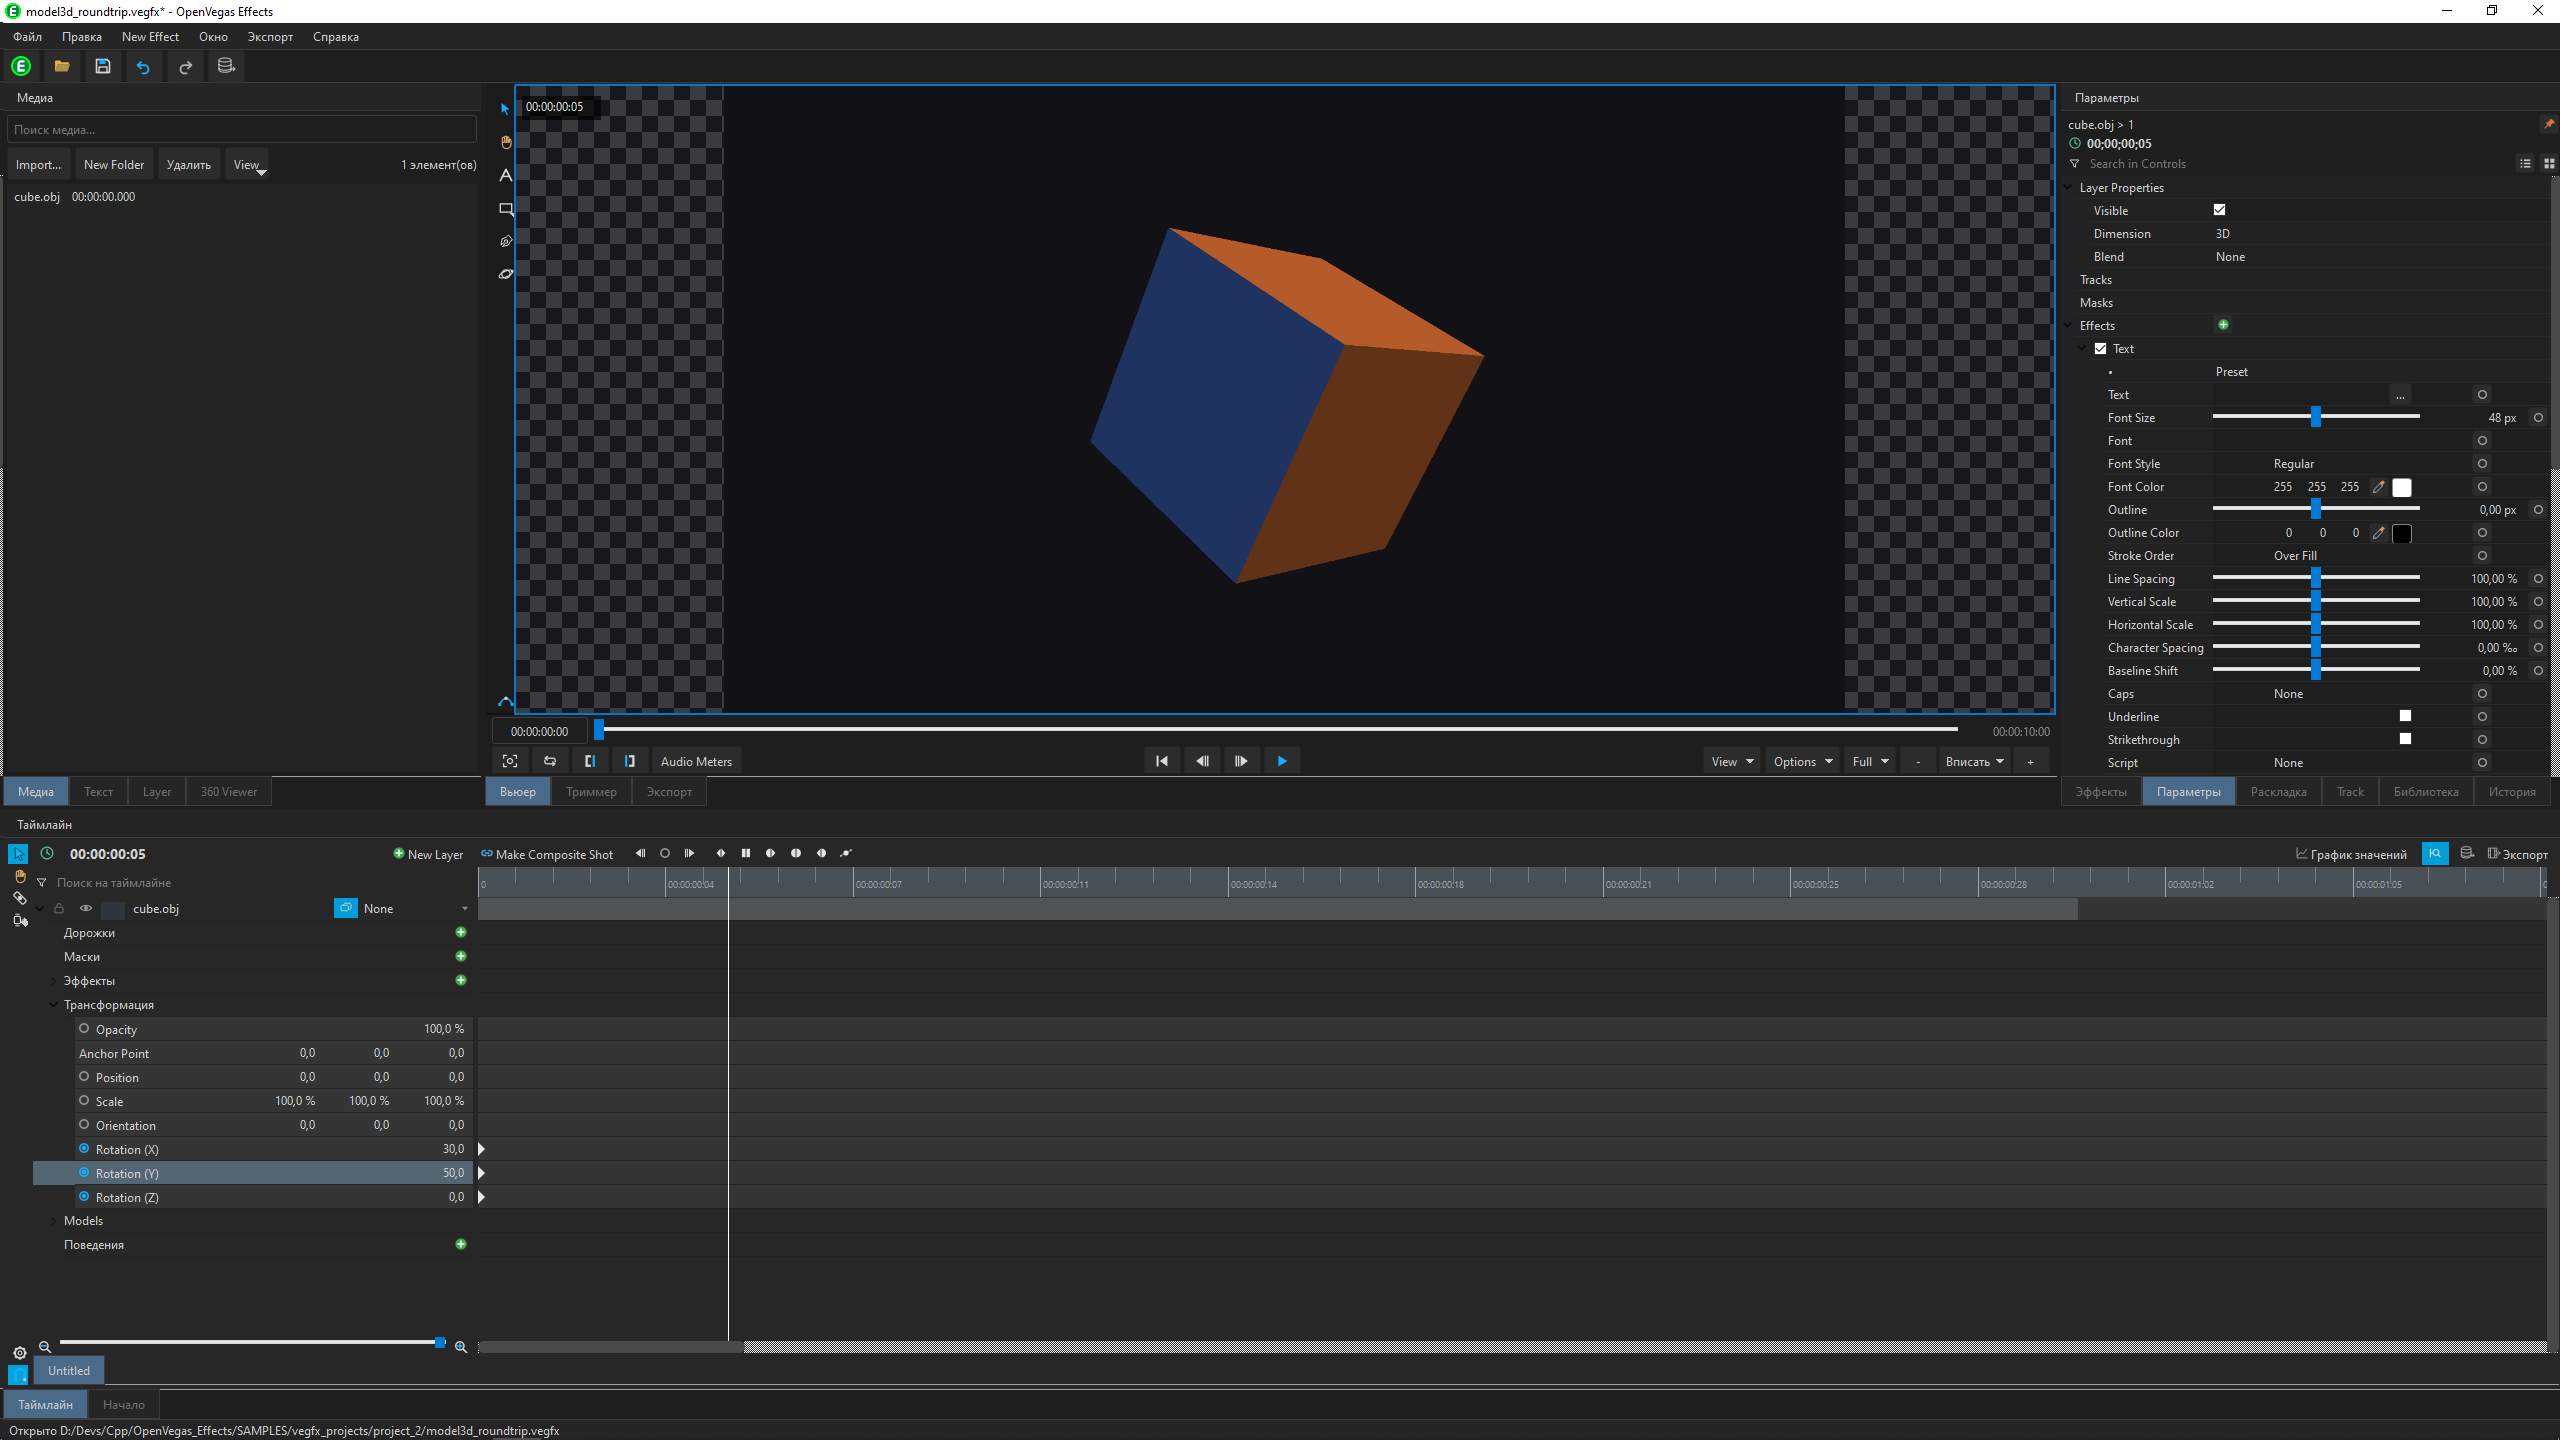
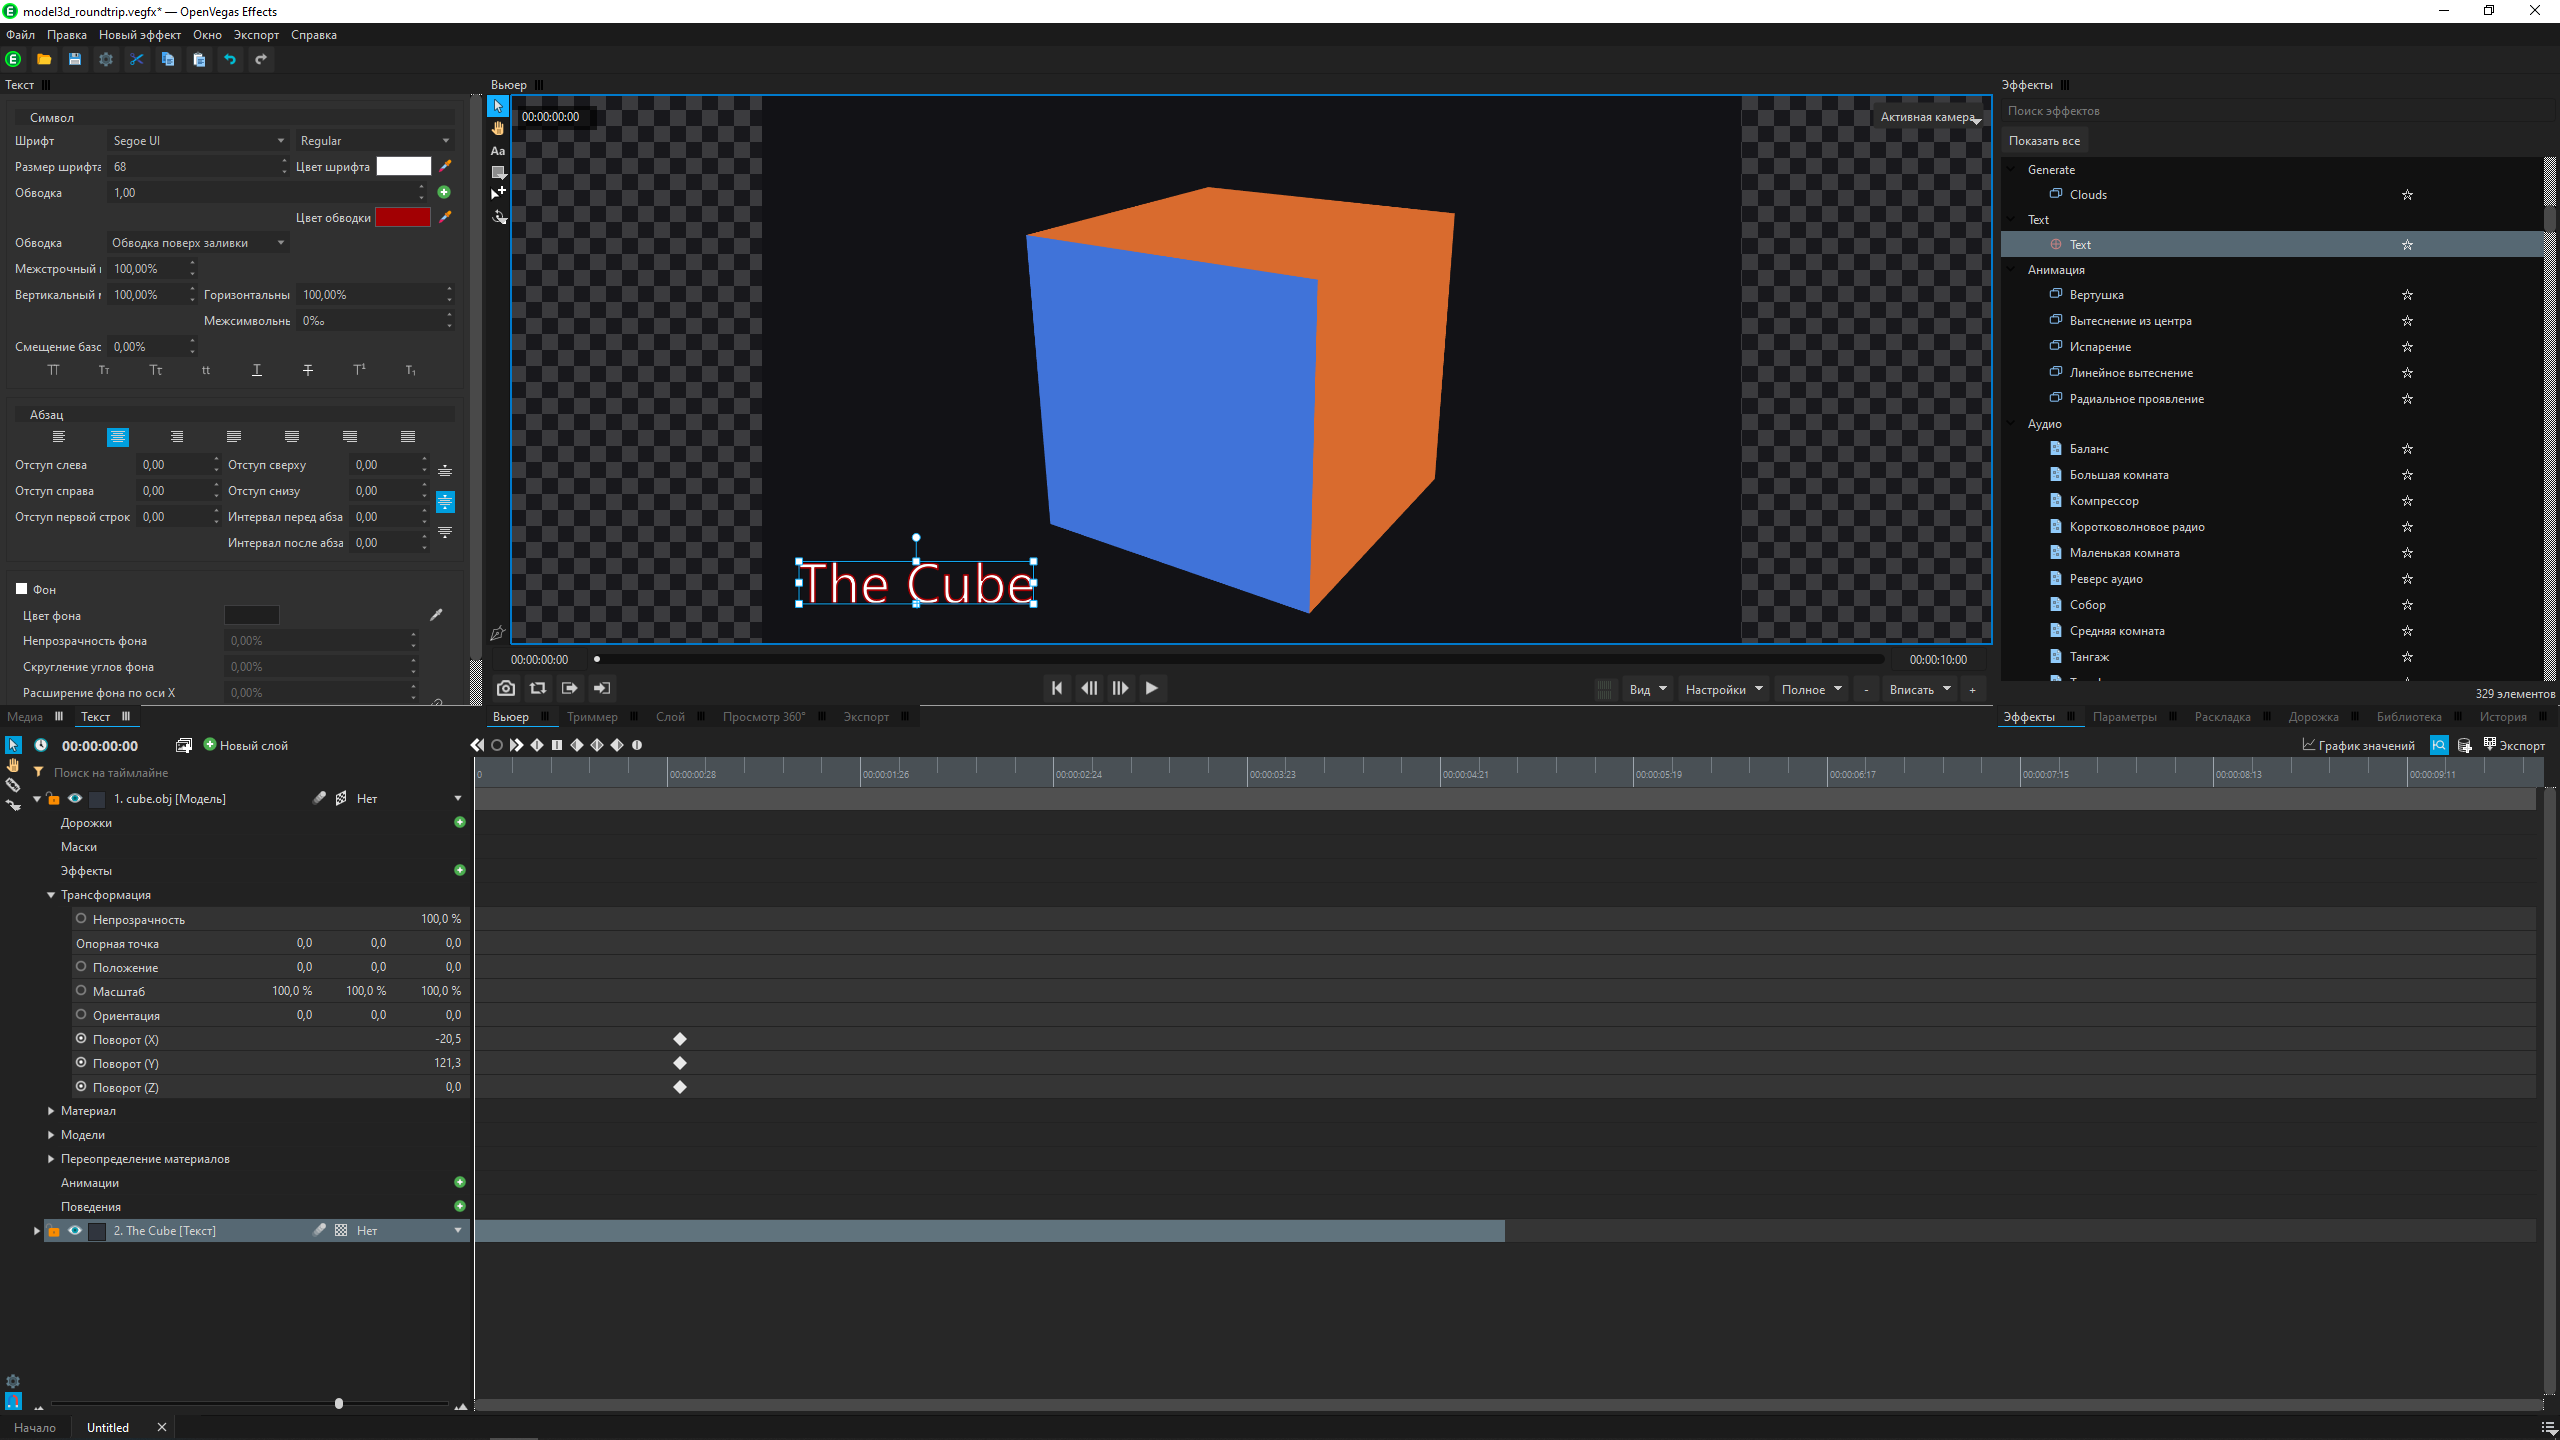
Checklist, main window screenshot and Qt Creator project settings

diff --git a/MARKDOWN/CHECKLIST.md b/MARKDOWN/CHECKLIST.md
@@ -1,7 +1,3 @@
-- [ ] Timeline — полное соответствие оригиналу: трекинг, маски, нативные `.hfpl`/Behaviors, вложенные композиции и вкладки, экспорт видео целиком.
-  - [x] Исполнение закрытого машинного кода нативных `.hfpl` (19 октября 2026): все 329 модулей `SAMPLES/VEGAS_Effects/Plugins` регистрируются как исполняемые, и тест `everyShippedModuleRuns` прогоняет машинный код каждого через хост по его виду — 2D-эффект по картинке, видеопереход, аудиоэффект и аудиопереход по PCM, Behavior (слоевые — `TransformationAtTime`, 16 побуквенных — рендером текстового слоя, буквы движутся), Geometry по четырёхугольнику: 318 модулей, отказов нет. MotionTrack, AutomaticStabilizer и MotionLock живут на своих экземплярах и проверены отдельно (`motionTrackHostTracksFootage`, `stabilizersSteadyTheirOwnLayer`).
-  - [x] Полная поддержка плагинов `.hfpl` (19 октября 2026): этапы выше закрыты — исполнение всех видов модулей, элементы управления и переводы, custom UI во Вьювере, экземпляры (MotionTrack, стабилизаторы), симулируемые и побуквенные Behavior, Geometry, уменьшенное превью как проход эффектов Flux, Motion Blur по ключам, 360 Viewer через EnvironmentMapViewer; эффекты пишутся в списки `.vegfx` эталона, пресеты `.hfpr`.
-  - [x] После всего выше создай проект в `SAMPLES/vegfx_projects/project_3` в котором будет использоваться куб из `project_2`, котороый будет всячески вращатся по кейфреймам, разный текст, который как бы отцентрован по граням куба и множество эффектов на кубе, текстах и глобально на картинке для проверки работы. Также надо использовать в проекте аудиофайлы в папке и применить на них эффекты для проверки.
-    - Сделано 19 октября 2026: `Project.vegfx` (20 с, 1920×1080, 30 к/с) собирает тест `buildProject3` (`OPENVEGAS_PROJECT3_OUT`, превью — `OPENVEGAS_PROJECT3_PREVIEW`), пути относительные. Вложенный шот «Cube Scene»: куб `../project_2/model/cube.obj` с ключами поворота по X/Y/Z (Easy Ease), покачиванием и пульсом масштаба; шесть 3D-текстов, привязанных к кубу по центрам граней (OpenVegas +Glow, EFFECTS +Typewriter, 3D +Extrude, Тест +WavyStyle, HFPL +DropShadow, 日本語 +Bevel); ключевой и заполняющий свет. На вложенном слое — Glow, ChromaticAberration, DropShadow, Shake по ключам с Motion Blur и переходы Fade to Color на входе и выходе; фон — плоскость с 4PointRamp и Grain; заголовок с побуквенным DropInByChar и Glow; корректирующий слой ColorCorrection, Vignette, LightLeak, FilmGrain. Аудио из папки: `Alf42red - Mauiwowi.wav` (Equaliser, AudioEcho, Fade) и `TameAnderson - MakeMe.flac` (Compressor, LargeRoom, Fade). По пути исправлены: рост цели 2D-эффектов (GetRenderGrowth), Y вверх в текстурах модулей, глубина тел по пикселям поверхности, сторона и точка монтажа видеопереходов (Fade to Color рисовал пустоту).
-  - [x] OuterGlow на выросшей цели (23 октября 2026): при рендере Flux кладёт в `+0x60/+0x64` размер выросшей цели, а в `+0x78..+0x90` — указатели на поля, как при `GetRenderGrowth`; OuterGlow и DropShadow строят четырёхугольник слоя от 0 до этого размера и растягивают UV на него без полей. Хост клал размер слоя — свечение уезжало. Тест `outerGlowStaysAroundItsLayer`.
+- [ ] Реши стоит ли использовать дополнительно REA (https://github.com/morluto/rea) в паре с Ghidra.
+- [ ] Почему я не могу перемещать вверх или вниз слои композиции, исправь.
 - [ ] Проверить VLC 4 runtime, микрофон и системный аудиовыход на macOS/Linux; автоматические проверки подтверждают PCM и состояние VLC player, а не физическую слышимость.
